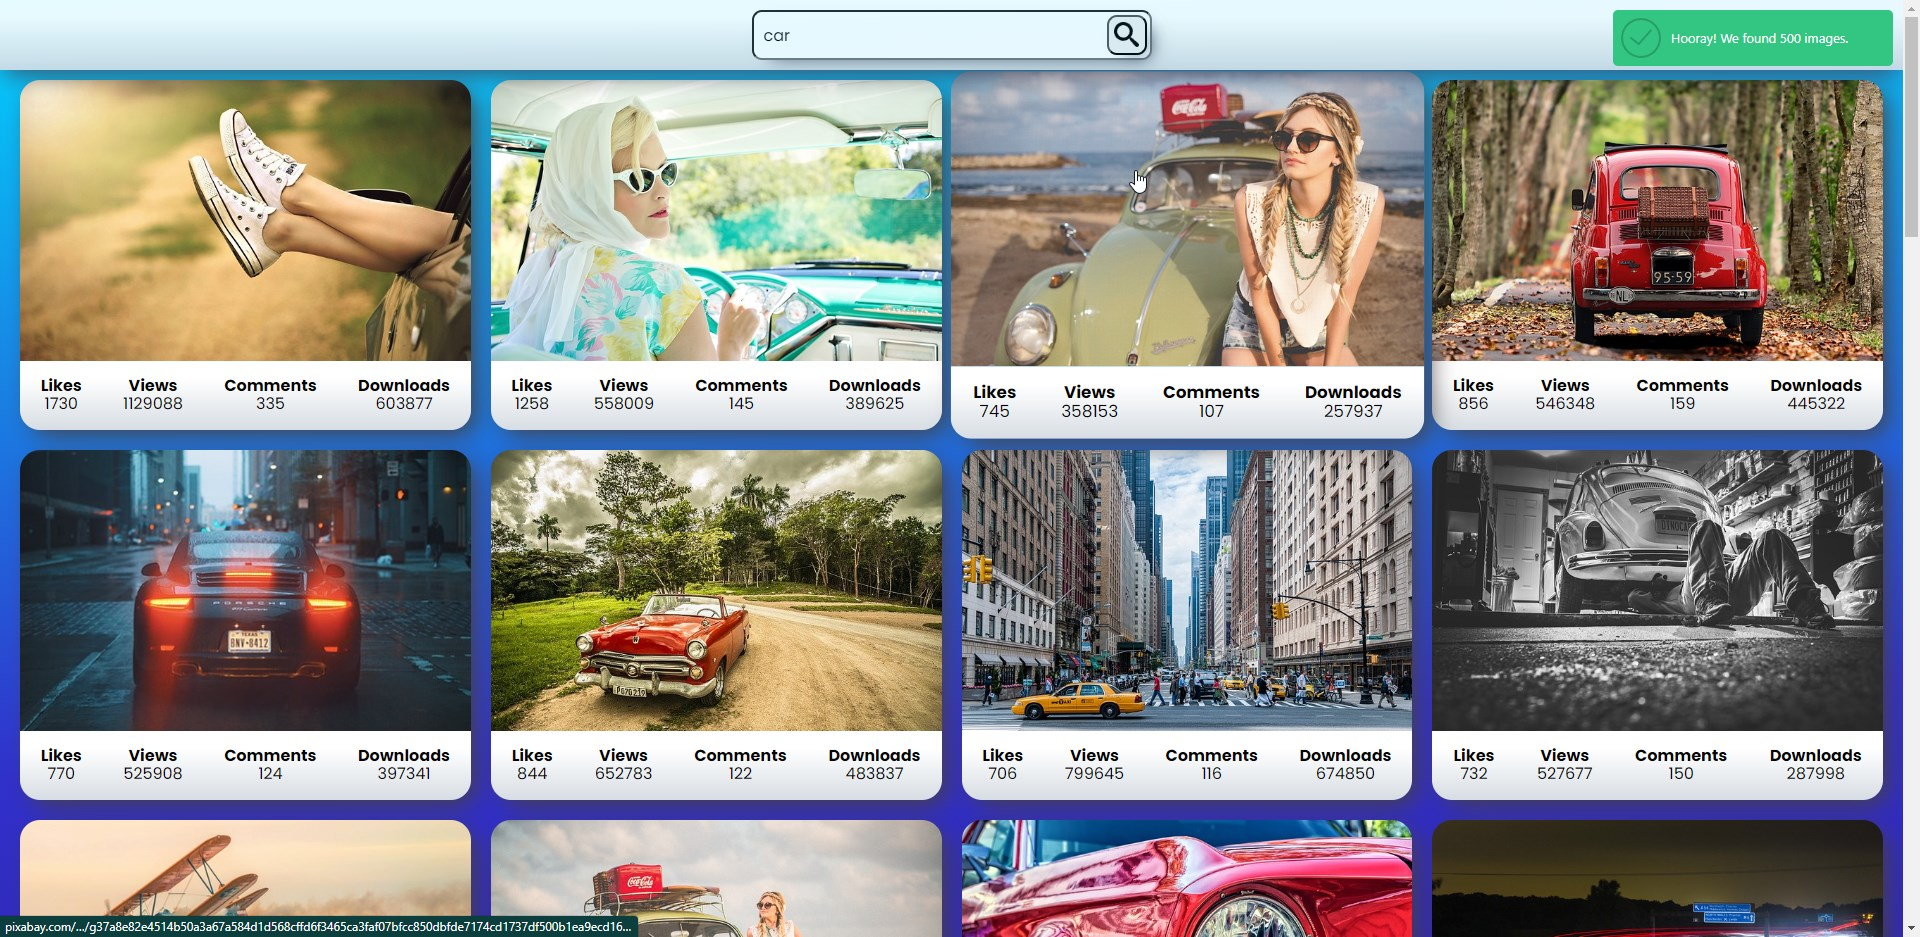
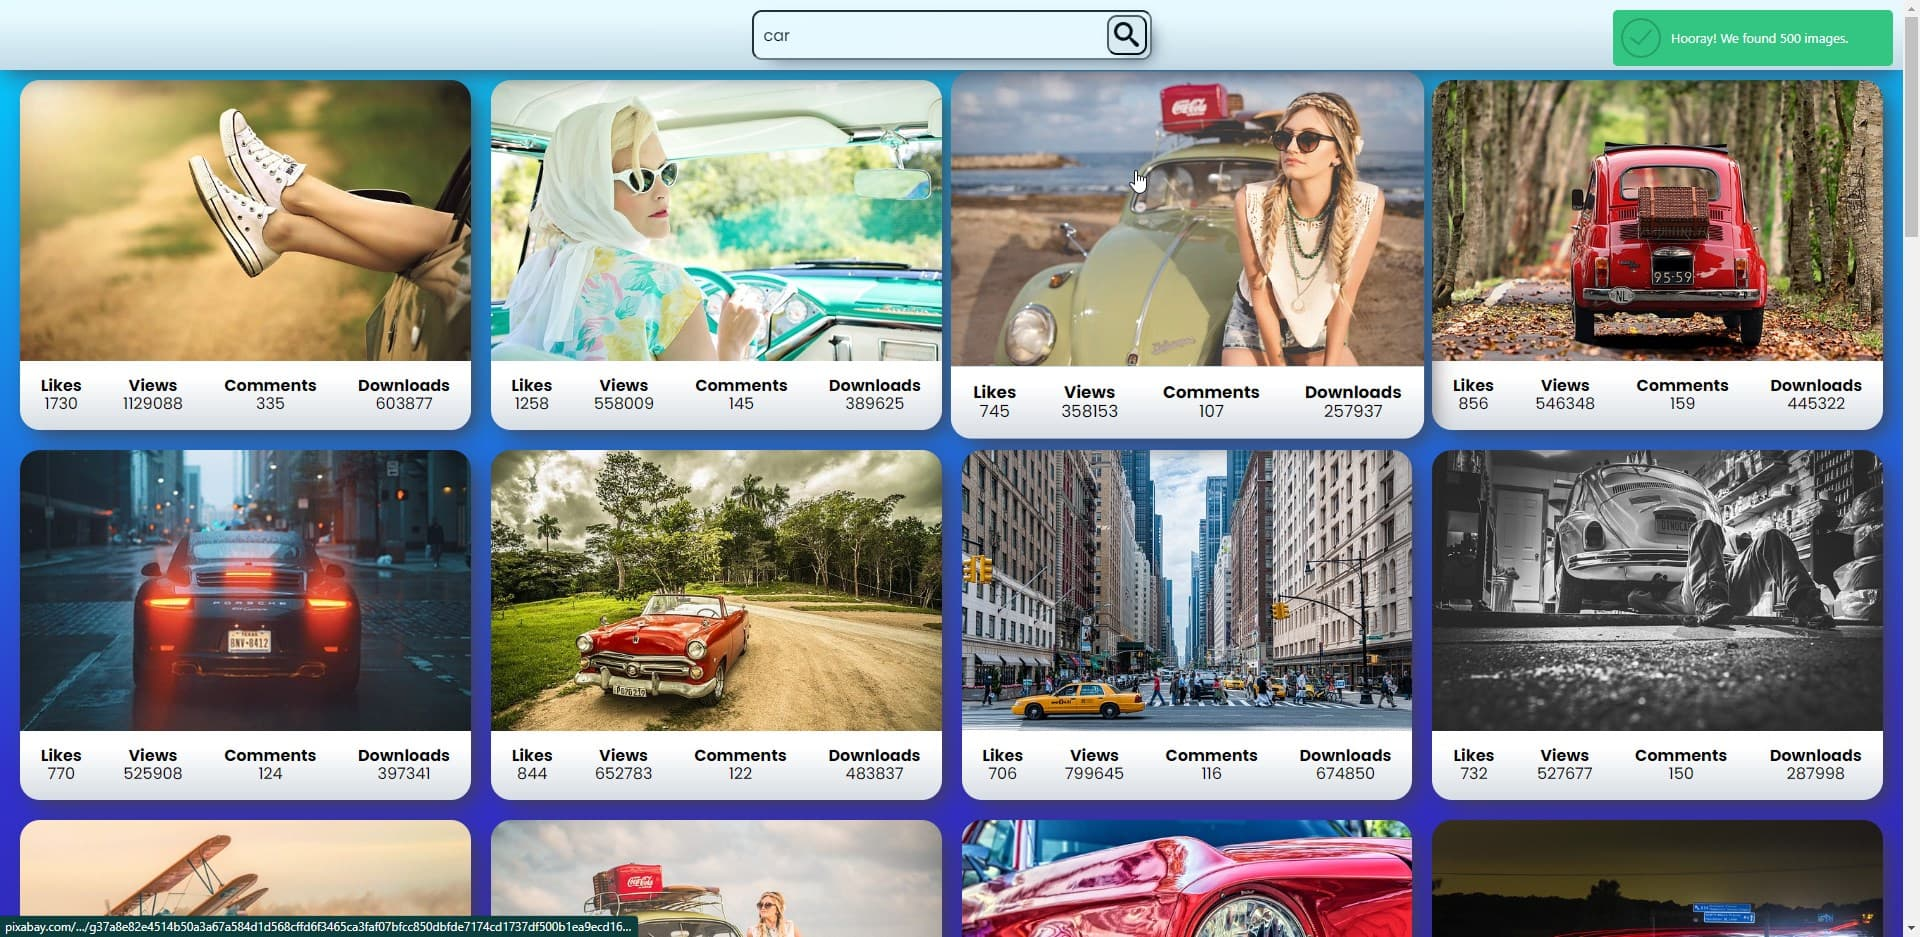
update path img , and reduce file size

diff --git a/src/content/work/searchcountry.md b/src/content/work/searchcountry.md
@@ -3,7 +3,7 @@ title: Search engine country
 publishDate: 2019-10-02 00:00:00
 demo: https://gash94.github.io/country-search-engine
 repo: https://github.com/gash94/country-search-engine
-img: /assets/searchcountry.png
+img: /assets/searchcountry.jpg
 img_alt: page in blue colors showing the search engine country
 description: |
     "Search Engine Country" is an application that allows users to search for countries and provides various information about each country, including its capital city, region, population size, official language, illustrations of the flag, and a link to a Wikipedia page that describes the country in detail.

diff --git a/src/content/work/webstudio.md b/src/content/work/webstudio.md
@@ -3,7 +3,7 @@ title: WebStudio
 publishDate: 2023-06-19 18:00:00
 demo: https://gash94.github.io/WebStudio
 repo: https://github.com/gash94/WebStudio
-img: /assets/webstudio.png
+img: /assets/webstudio.jpg
 img_alt: Web Studio preview in bright colors
 description: |
     "WebStudio" is the first project of a website developed based on a mockup designed in Figma. It was coded using HTML5, CSS3, SCSS, and responsive layout techniques. The project also incorporates ready-made JavaScript scripts, such as a hamburger menu for mobile view. It serves as an example of a fictitious company's website.

diff --git a/src/content/work/eventbooster.md b/src/content/work/eventbooster.md
@@ -3,7 +3,7 @@ title: Event Booster
 publishDate: 2023-26-06 19:00:00
 demo: https://gash94.github.io/eventbooster-goit-group-5
 repo: https://github.com/gash94/eventbooster-goit-group-5
-img: /assets/eventbooster.png
+img: /assets/eventbooster.jpg
 img_alt: The page in a dark shade shows the event search engine
 description: |
     "EventBooster" is a JavaScript-based web application that allows users to search for events in different countries. The main objective of this application is to help users find cultural, sports, entertainment, and other events that take place worldwide.

diff --git a/src/content/work/phonebook.md b/src/content/work/phonebook.md
@@ -3,7 +3,7 @@ title: Phonebook
 publishDate: 2023-26-06 00:00:00
 demo: https://gash94.github.io/goit-react-hw-08-phonebook
 repo: https://github.com/gash94/goit-react-hw-08-phonebook
-img: /assets/phonebook.png
+img: /assets/phonebook.jpg
 img_alt: Page in dark colors with contact cards.
 description: |
     The "Phonebook" application is an interactive web application that allows users to manage their phone contacts. The main goal of this application is to enable users to add, edit, delete, and browse their contacts in a simple and intuitive way.

diff --git a/src/content/work/icecream.md b/src/content/work/icecream.md
@@ -3,7 +3,7 @@ title: Event Booster
 publishDate: 2022-26-06 13:00:00
 demo: https://gash94.github.io/icecram-goit-group-2
 repo: https://github.com/gash94/icecram-goit-group-2
-img: /assets/icecram.png
+img: /assets/icecram.jpg
 img_alt: a color page depicting a fictional ice cream parlor
 description: |
     "Ice Cream" is a fictional ice cream parlor website that has been coded based on a Figma mockup. The website was developed by a group of developers as a collaborative project, with Paweł Gasz serving as the team leader.

diff --git a/src/content/work/todoapp.md b/src/content/work/todoapp.md
@@ -3,7 +3,7 @@ title: ToDoApp
 publishDate: 2023-06-20 00:00:00
 demo: https://gash94.github.io/todo-list-app
 repo: https://github.com/gash94/todo-list-app
-img: /assets/todoapp.png
+img: /assets/todoapp.jpg
 img_alt: Bright side with the task saver app
 description: |
     "The ToDoApp" is a simple web application developed using HTML5, CSS3, and JavaScript. The main purpose of this application is to allow users to create and manage a list of tasks to be completed.
